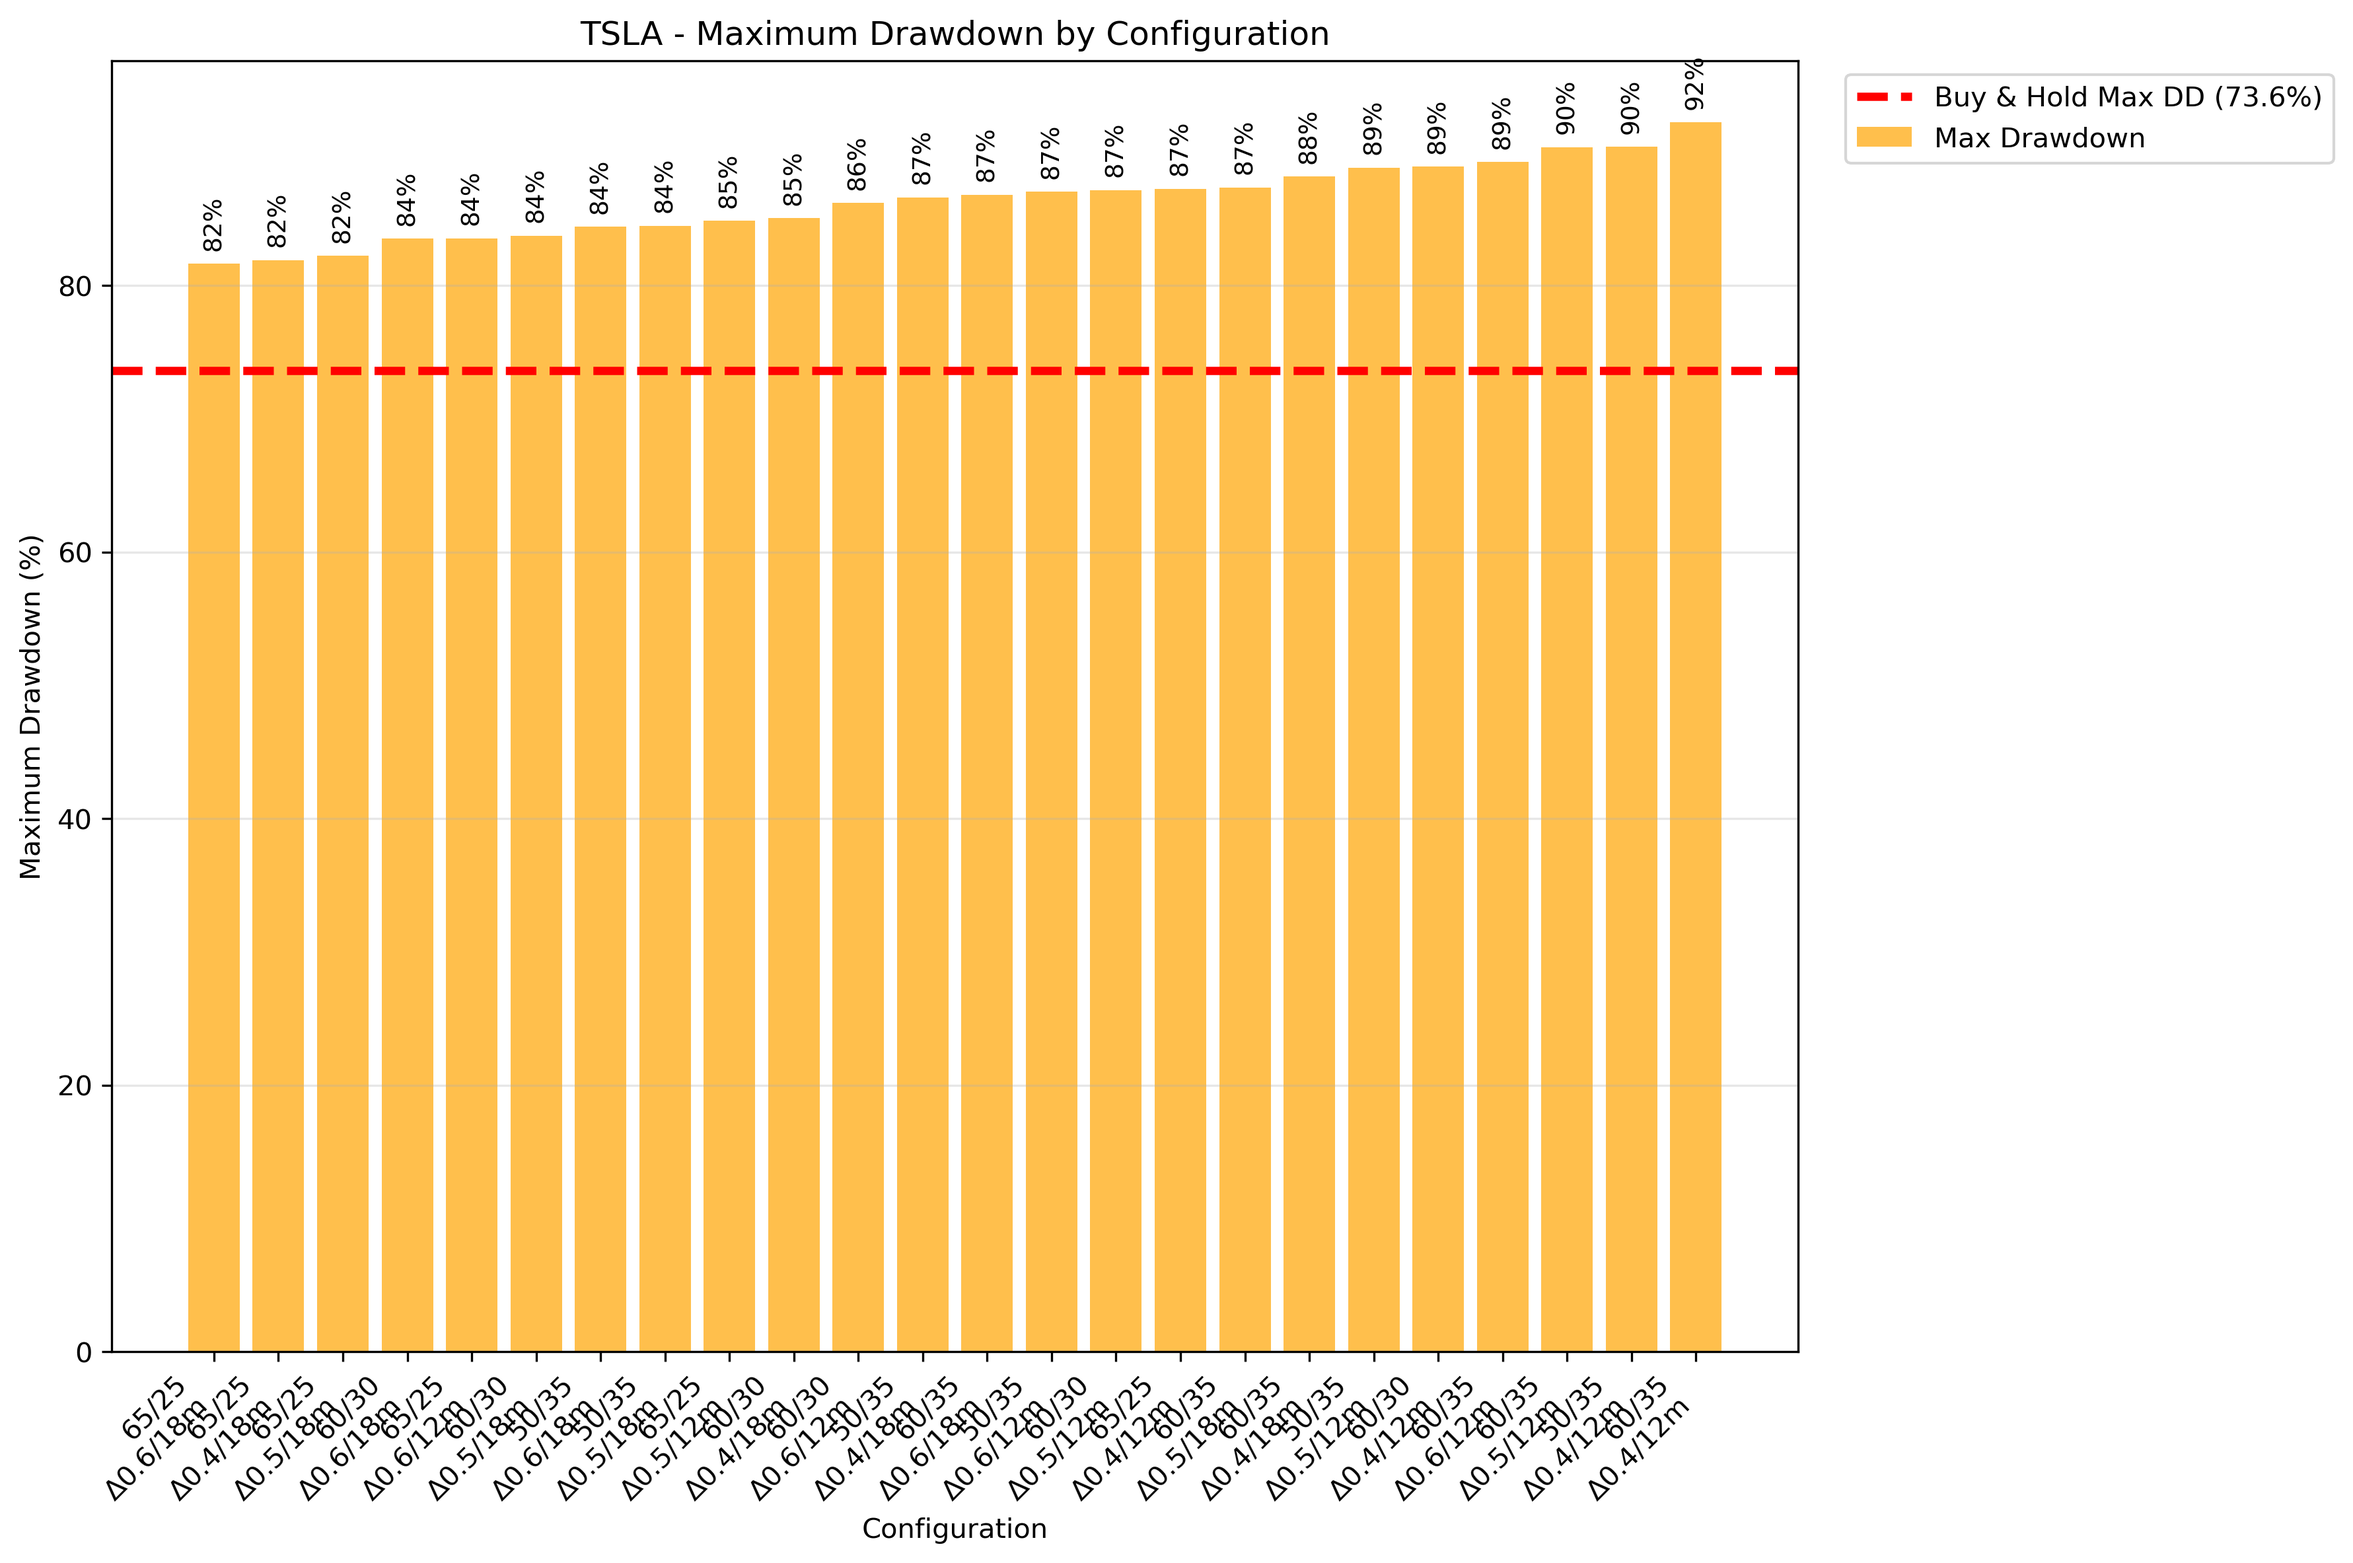
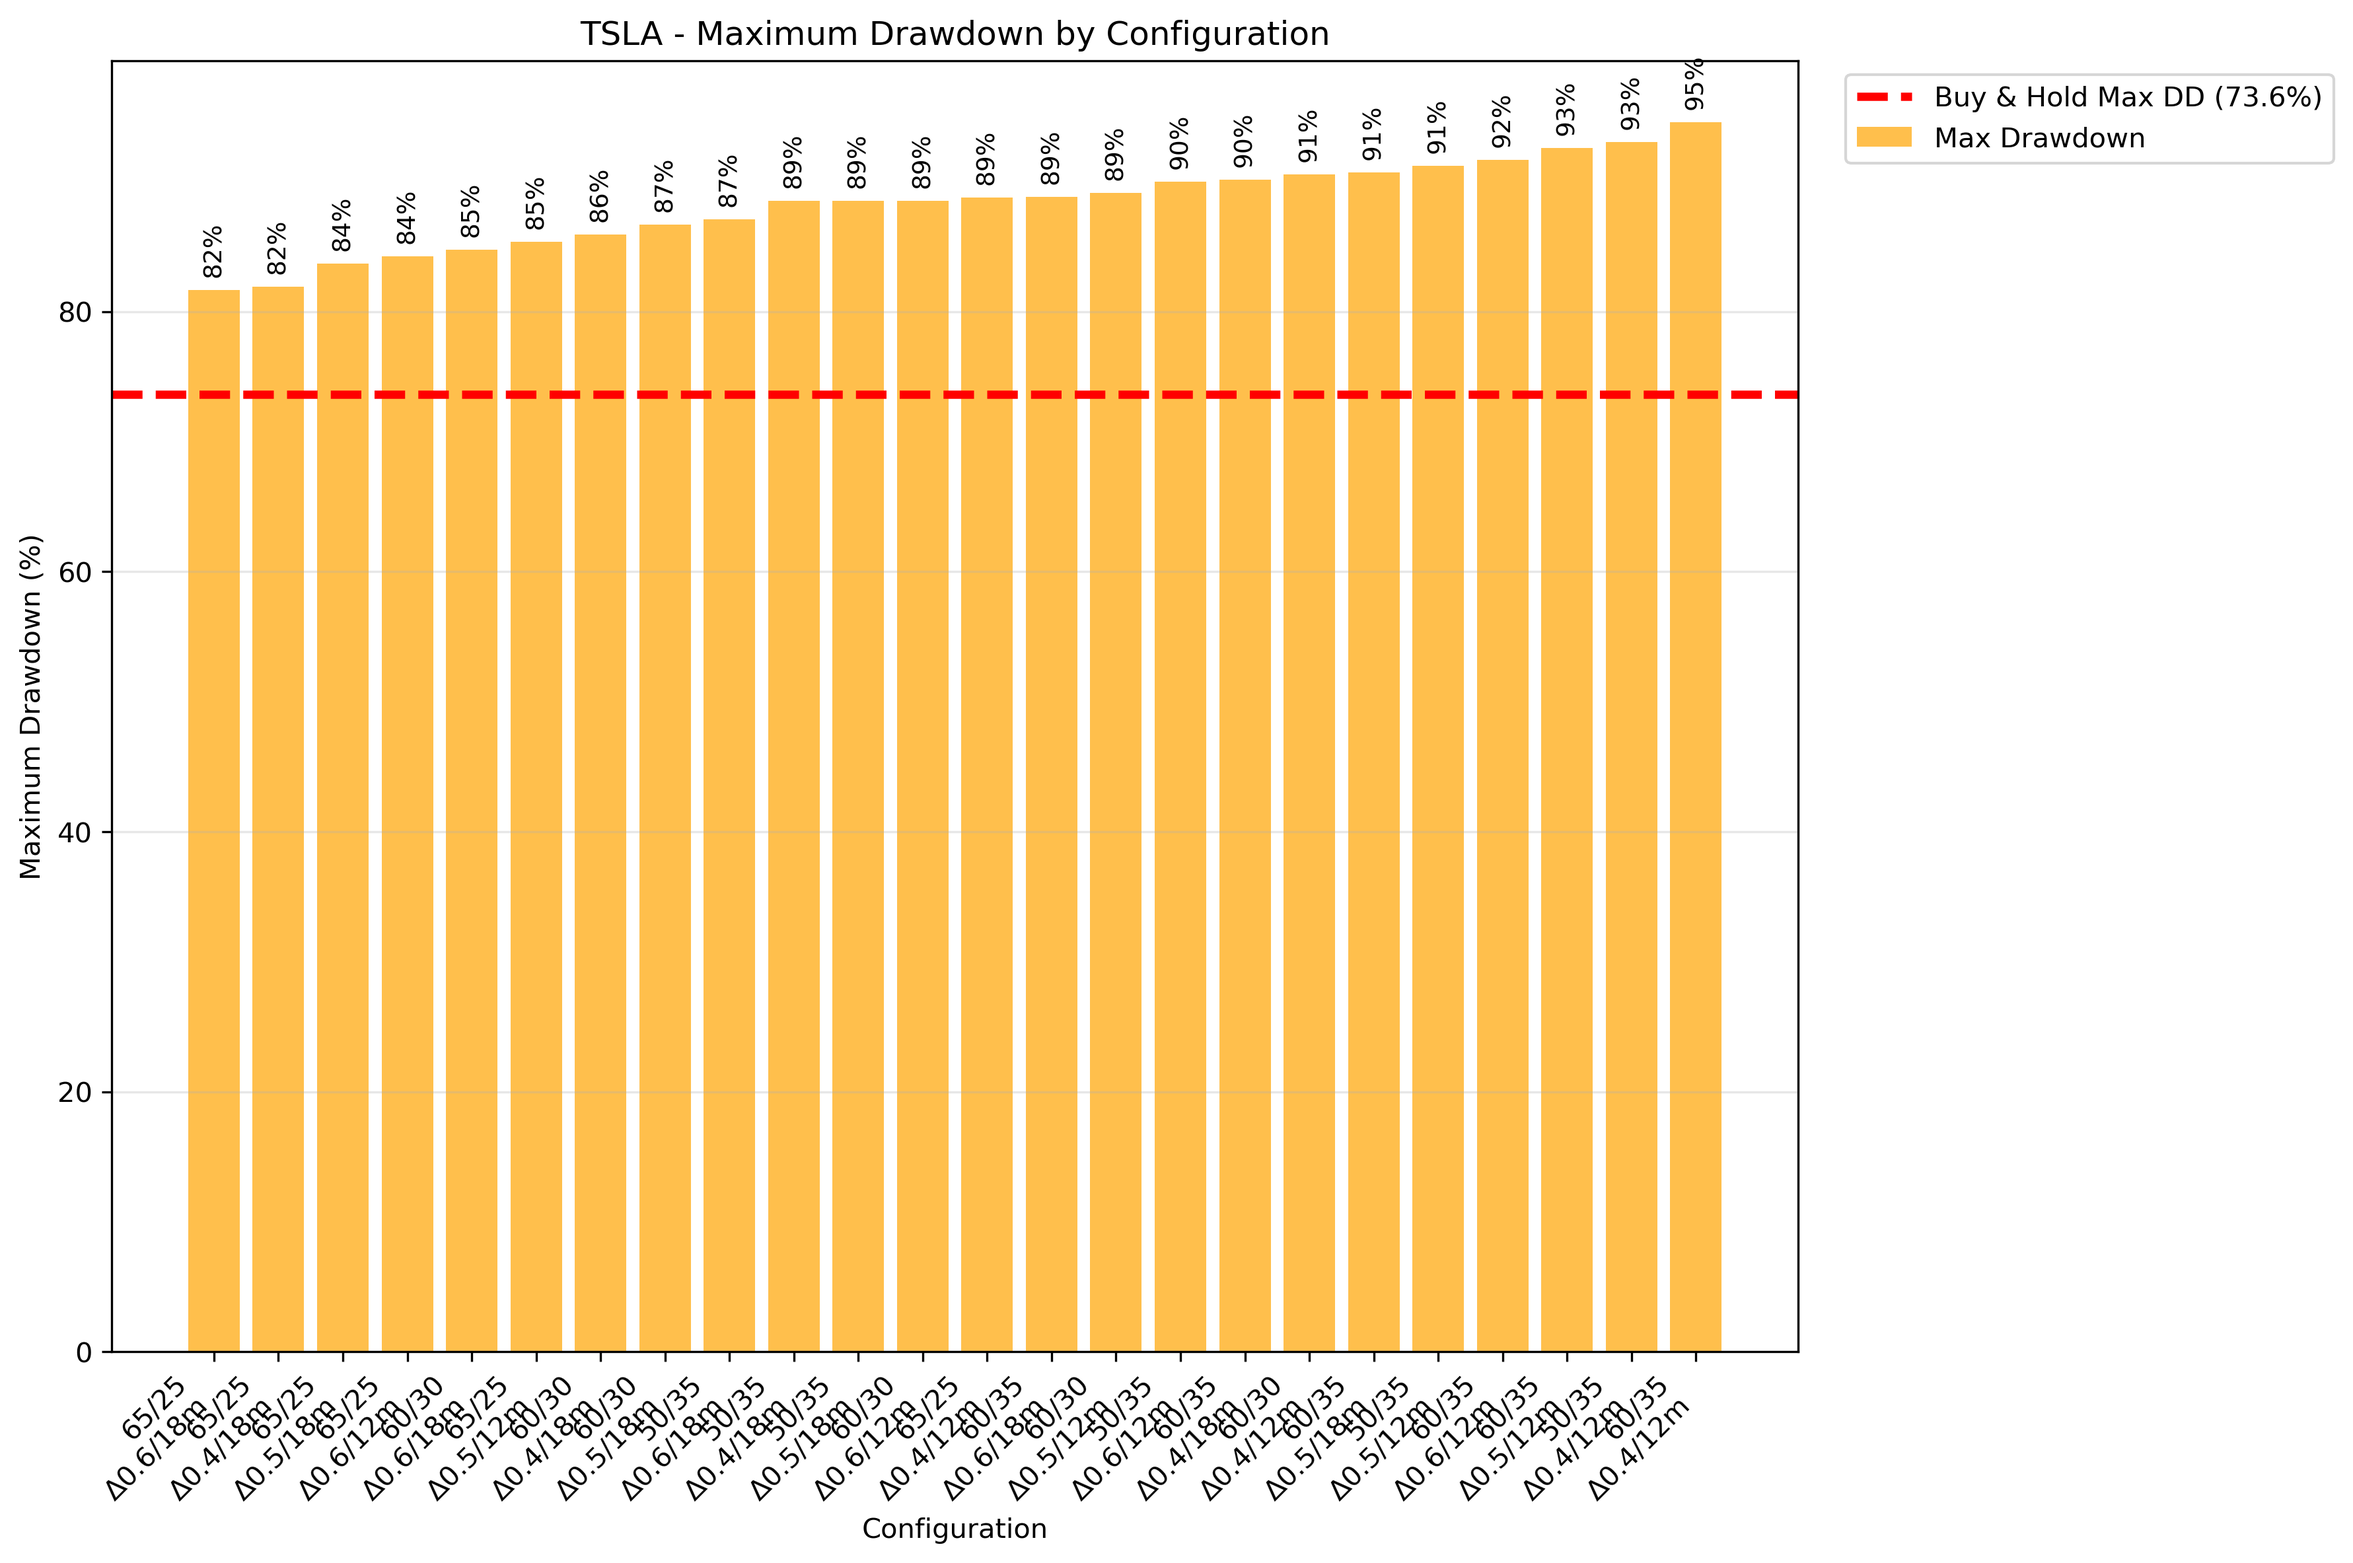
chore: update experiment results and directory structure
restructure the experiments output by moving charts and results into
dedicated subdirectories. update the experiment runner to use a longer
timeframe (through 2025) and reflect the new path structure. remove
obsolete debug scripts and old result files.

diff --git a/experiments/run_experiments_with_charts.py b/experiments/run_experiments_with_charts.py
@@ -89,7 +89,7 @@ class StrategyExperimentWithCharts:
         # Base parameters
         base_params = {
             'start_date': '2020-01-01',
-            'end_date': '2023-12-31',  # Shorter period for faster execution
+            'end_date': '2025-12-31',  # Shorter period for faster execution
             'initial_capital': 100000,
             'use_simulation': False,
             'monthly_withdrawal': 0,
@@ -188,7 +188,7 @@ class StrategyExperimentWithCharts:
         
         return df
     
-    def create_charts(self, results_df: pd.DataFrame, output_dir: str = 'experiments/charts'):
+    def create_charts(self, results_df: pd.DataFrame, output_dir: str = 'charts'):
         """Create bar charts comparing baseline vs all scenarios"""
         
         # Create output directory
@@ -284,7 +284,7 @@ class StrategyExperimentWithCharts:
             # Create separate focused charts
             self.create_focused_charts(symbol_data, symbol, output_dir)
     
-    def create_focused_charts(self, symbol_data: pd.DataFrame, symbol: str, output_dir: str = 'experiments/charts'):
+    def create_focused_charts(self, symbol_data: pd.DataFrame, symbol: str, output_dir: str = 'charts'):
         """Create focused charts for total return and max drawdown separately"""
         
         # Chart 1: Total Return Focus
@@ -392,7 +392,7 @@ def main():
     
     # Save results
     timestamp = datetime.now().strftime('%Y%m%d_%H%M%S')
-    results_file = f'experiments/experiment_results_with_charts_{timestamp}.csv'
+    results_file = f'results/experiment_results_with_charts_{timestamp}.csv'
     results_df.to_csv(results_file, index=False)
     print(f"\nResults saved to {results_file}")
     
@@ -407,7 +407,7 @@ def main():
         print(f"Best Sharpe ratio: {successful['sharpe_ratio'].max():.3f}")
         print(f"Lowest drawdown: {successful['max_drawdown'].min():.1f}%")
     
-    print(f"\nCharts saved to experiments/charts directory")
+    print(f"\nCharts saved to charts directory")
 
 if __name__ == "__main__":
     main()
